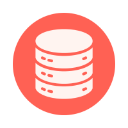
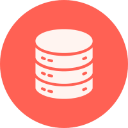
Update CSV column name and add privacy policy
- Rename 'ProductHunt URLS' column to 'ProductHunt Redirect URL' in CSV
- Add comprehensive privacy policy with proper markdown formatting
- Remove emoji icons for professional appearance
- Update manifest and other files as needed

Changed region(s): [[0.0, 0.0, 1.0, 1.0]]

diff --git a/popup.html b/popup.html
@@ -66,8 +66,8 @@
           </svg>
         </div>
         <div class="feature-text">
-          <h4>URL Resolution</h4>
-          <p>Redirects to get final destination URLs</p>
+          <h4>One-Click Extraction</h4>
+          <p>Scrape entire leaderboards instantly</p>
         </div>
       </div>
       <div class="feature-item">
@@ -77,8 +77,8 @@
           </svg>
         </div>
         <div class="feature-text">
-          <h4>High Performance</h4>
-          <p>Process 100+ URLs in under 1 minutes</p>
+          <h4>Complete Data Export</h4>
+          <p>All metadata in CSV format</p>
         </div>
       </div>
       <div class="feature-item">
@@ -89,8 +89,8 @@
           </svg>
         </div>
         <div class="feature-text">
-          <h4>Data Export</h4>
-          <p>Export comprehensive data to CSV format</p>
+          <h4>No API Required</h4>
+          <p>Completely free, zero setup needed</p>
         </div>
       </div>
     </div>

diff --git a/privacy-policy.md b/privacy-policy.md
@@ -1,0 +1,76 @@
+# Privacy Policy for ProductHunt Scraper Chrome Extension
+
+**Last Updated:** September 10, 2025
+
+---
+
+## 1. Information Collection and Use
+
+ProductHunt Scraper does not collect, store, or transmit any personal information from users. The extension operates entirely within your browser and processes data locally.
+
+## 2. Data Processing
+
+The extension processes the following data locally:
+
+- Product information displayed on Product Hunt leaderboard pages
+- Publicly available product metadata (names, descriptions, categories, upvotes)
+- Website URLs discovered through public ProductHunt redirects
+
+**Important:** All data processing occurs within your browser. No data is sent to external servers or third parties.
+
+## 3. Data Storage
+
+The extension temporarily stores extracted data in your browser's local storage only during the scraping process. This data is:
+
+- Automatically deleted after CSV export
+- Never transmitted outside your browser
+- Not accessible to other websites or applications
+
+## 4. Permissions Usage
+
+| Permission | Purpose |
+|------------|---------|
+| **Active Tab** | Used only to detect Product Hunt leaderboard pages |
+| **Scripting** | Used only to extract publicly visible product data from Product Hunt pages |
+| **Host Access** | Limited to producthunt.com domain for functionality |
+| **Storage** | Used only for temporary data processing during extraction |
+
+## 5. Third-Party Services
+
+This extension does not integrate with, communicate with, or send data to any third-party services, APIs, or external servers.
+
+## 6. Cookies and Tracking
+
+The extension does not use cookies, tracking pixels, or any form of user tracking or analytics.
+
+## 7. Data Security
+
+Since all processing is local and no data is transmitted, your information remains secure within your browser environment.
+
+## 8. Children's Privacy
+
+This extension does not knowingly collect any information from children under 13 years of age.
+
+## 9. Changes to Privacy Policy
+
+Any updates to this privacy policy will be posted on this page with an updated revision date.
+
+## 10. Contact Information
+
+For questions about this privacy policy, contact:
+
+**VegaStack Inc.**  
+Email: support@vegastack.com  
+Website: https://vegastack.com
+
+## 11. Compliance
+
+This extension complies with:
+
+- Chrome Web Store Developer Program Policies
+- Google's User Data Policy  
+- General Data Protection Regulation (GDPR) principles
+
+---
+
+*This privacy policy is designed to be transparent about our data practices and ensure user privacy protection.*
